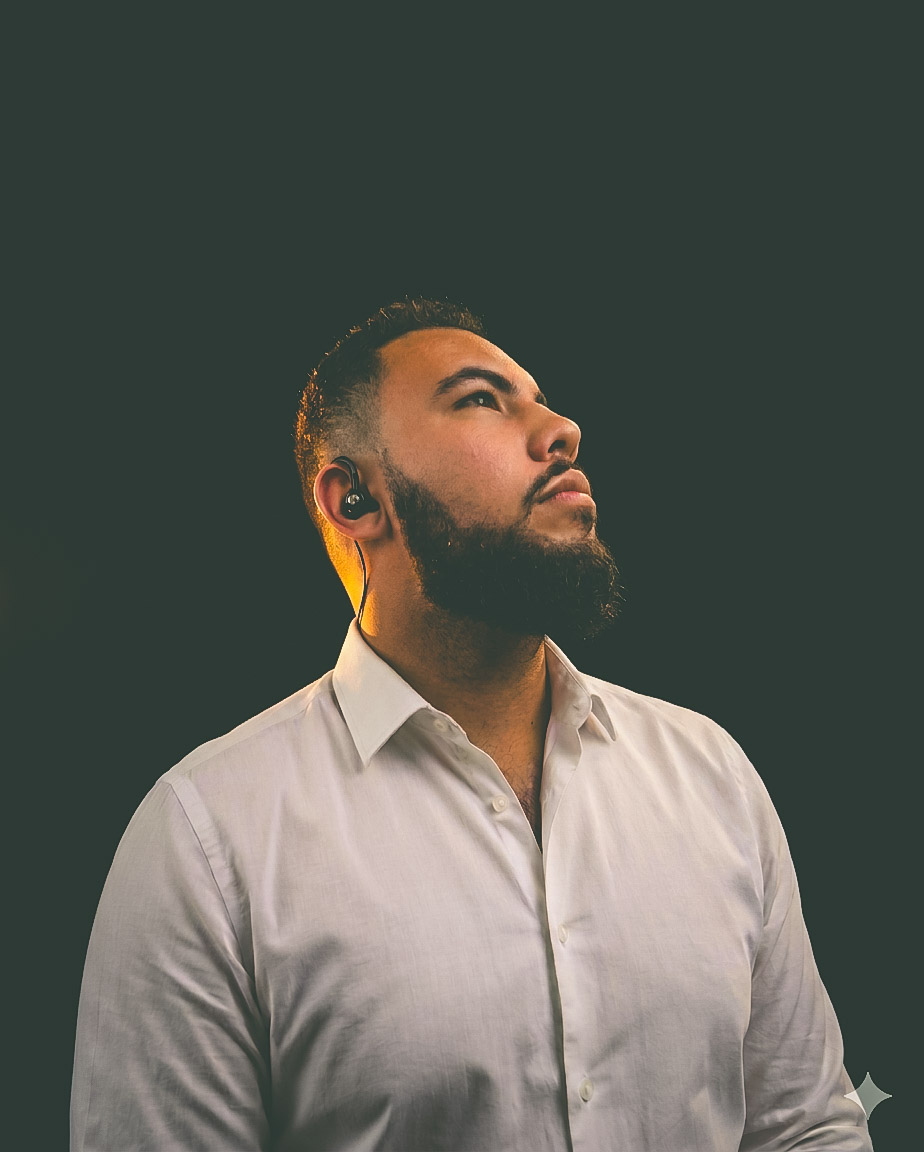
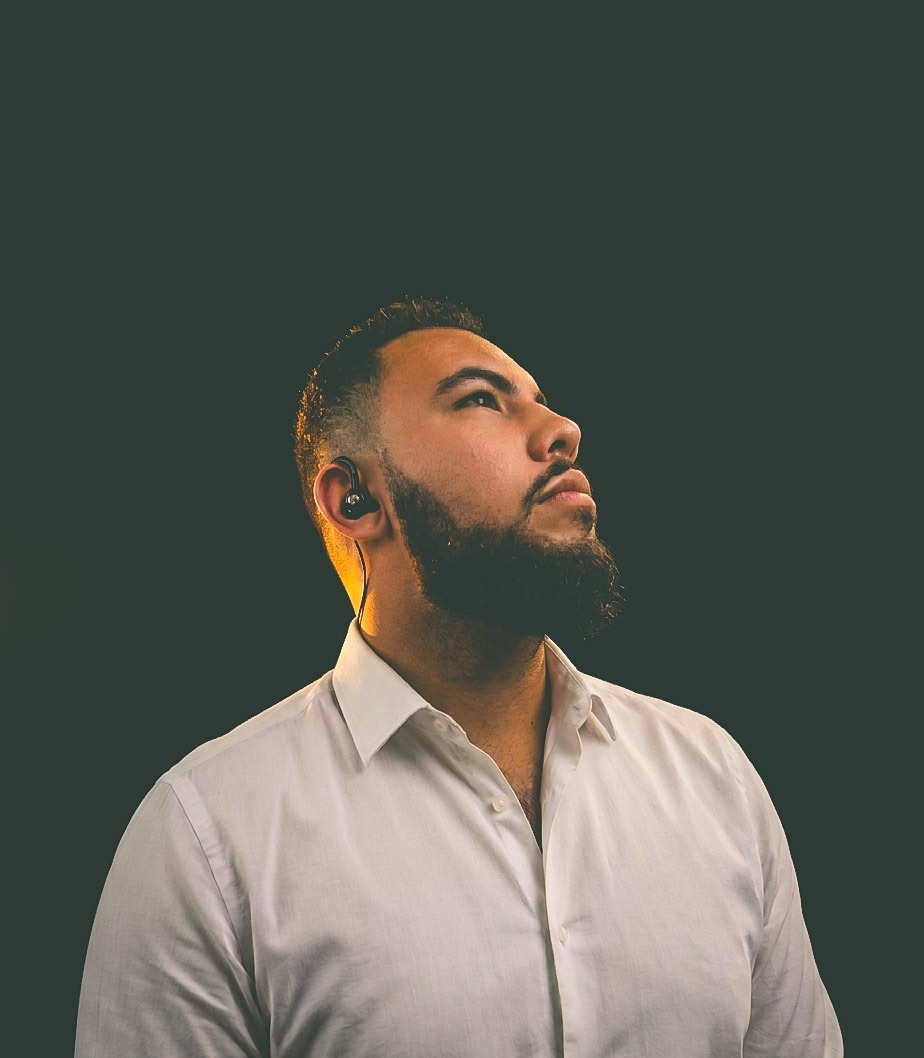
Cortar a marca d'água da foto
O canto inferior direito trazia o losango do Gemini, montado em cima
da borda do ombro — apagar ali exigiria reconstruir a dobra da
camisa, então cortei: a foto perde 94px de altura (8%), que eram só
barra da camisa, e passa de 924x1152 para 924x1058.

O arquivo com a marca fica guardado em _originais/, que não sobe
para o servidor.

Com a proporção nova (0,873 contra 0,800 da moldura), o site recorta
8,4% nas laterais em vez de nada — os ombros continuam inteiros, e
o peso caiu de 122 KB para 86 KB.

Changed region(s): [[0.0606, 0.2495, 0.9697, 1.0]]

diff --git a/docs/index.html b/docs/index.html
@@ -1000,7 +1000,7 @@
     <div class="shell quem-grade">
       
       <div class="quem-retrato aparece">
-        <img src="/static/gerson.jpg?v=1786539415" alt="Gerson Martins"
+        <img src="/static/gerson.jpg?v=1786540246" alt="Gerson Martins"
              loading="lazy" width="520" height="650">
       </div>
       
